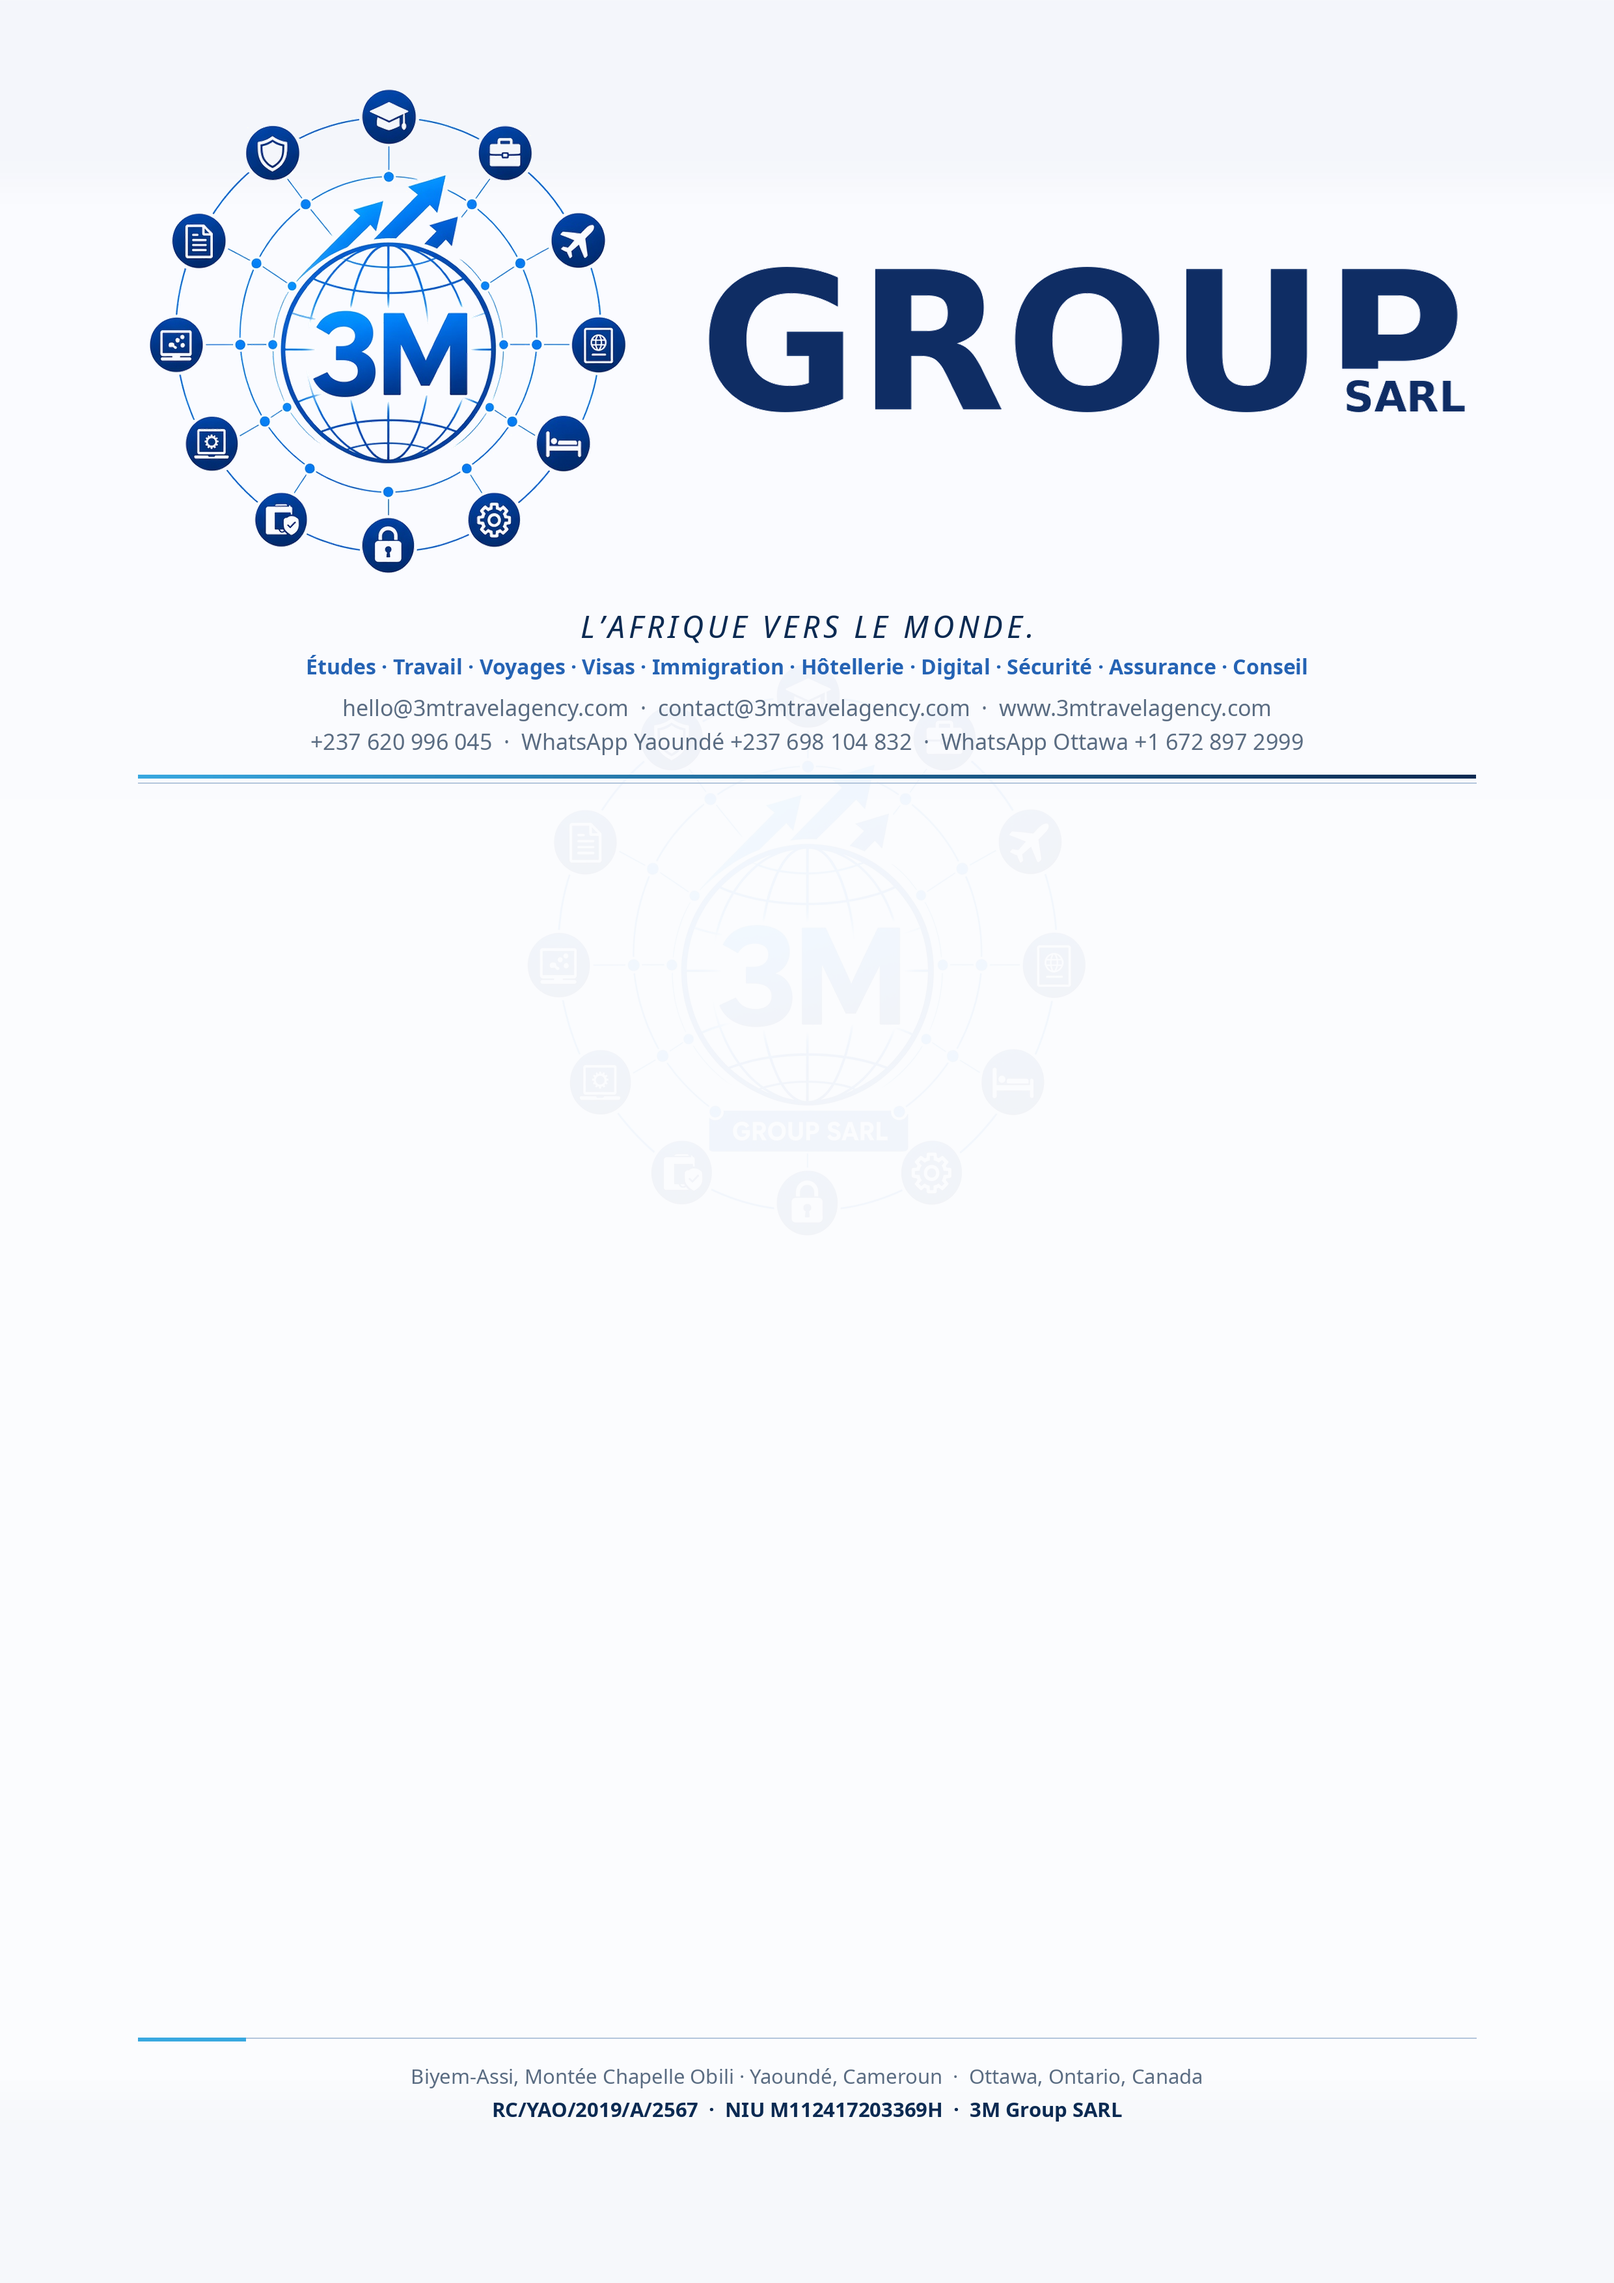
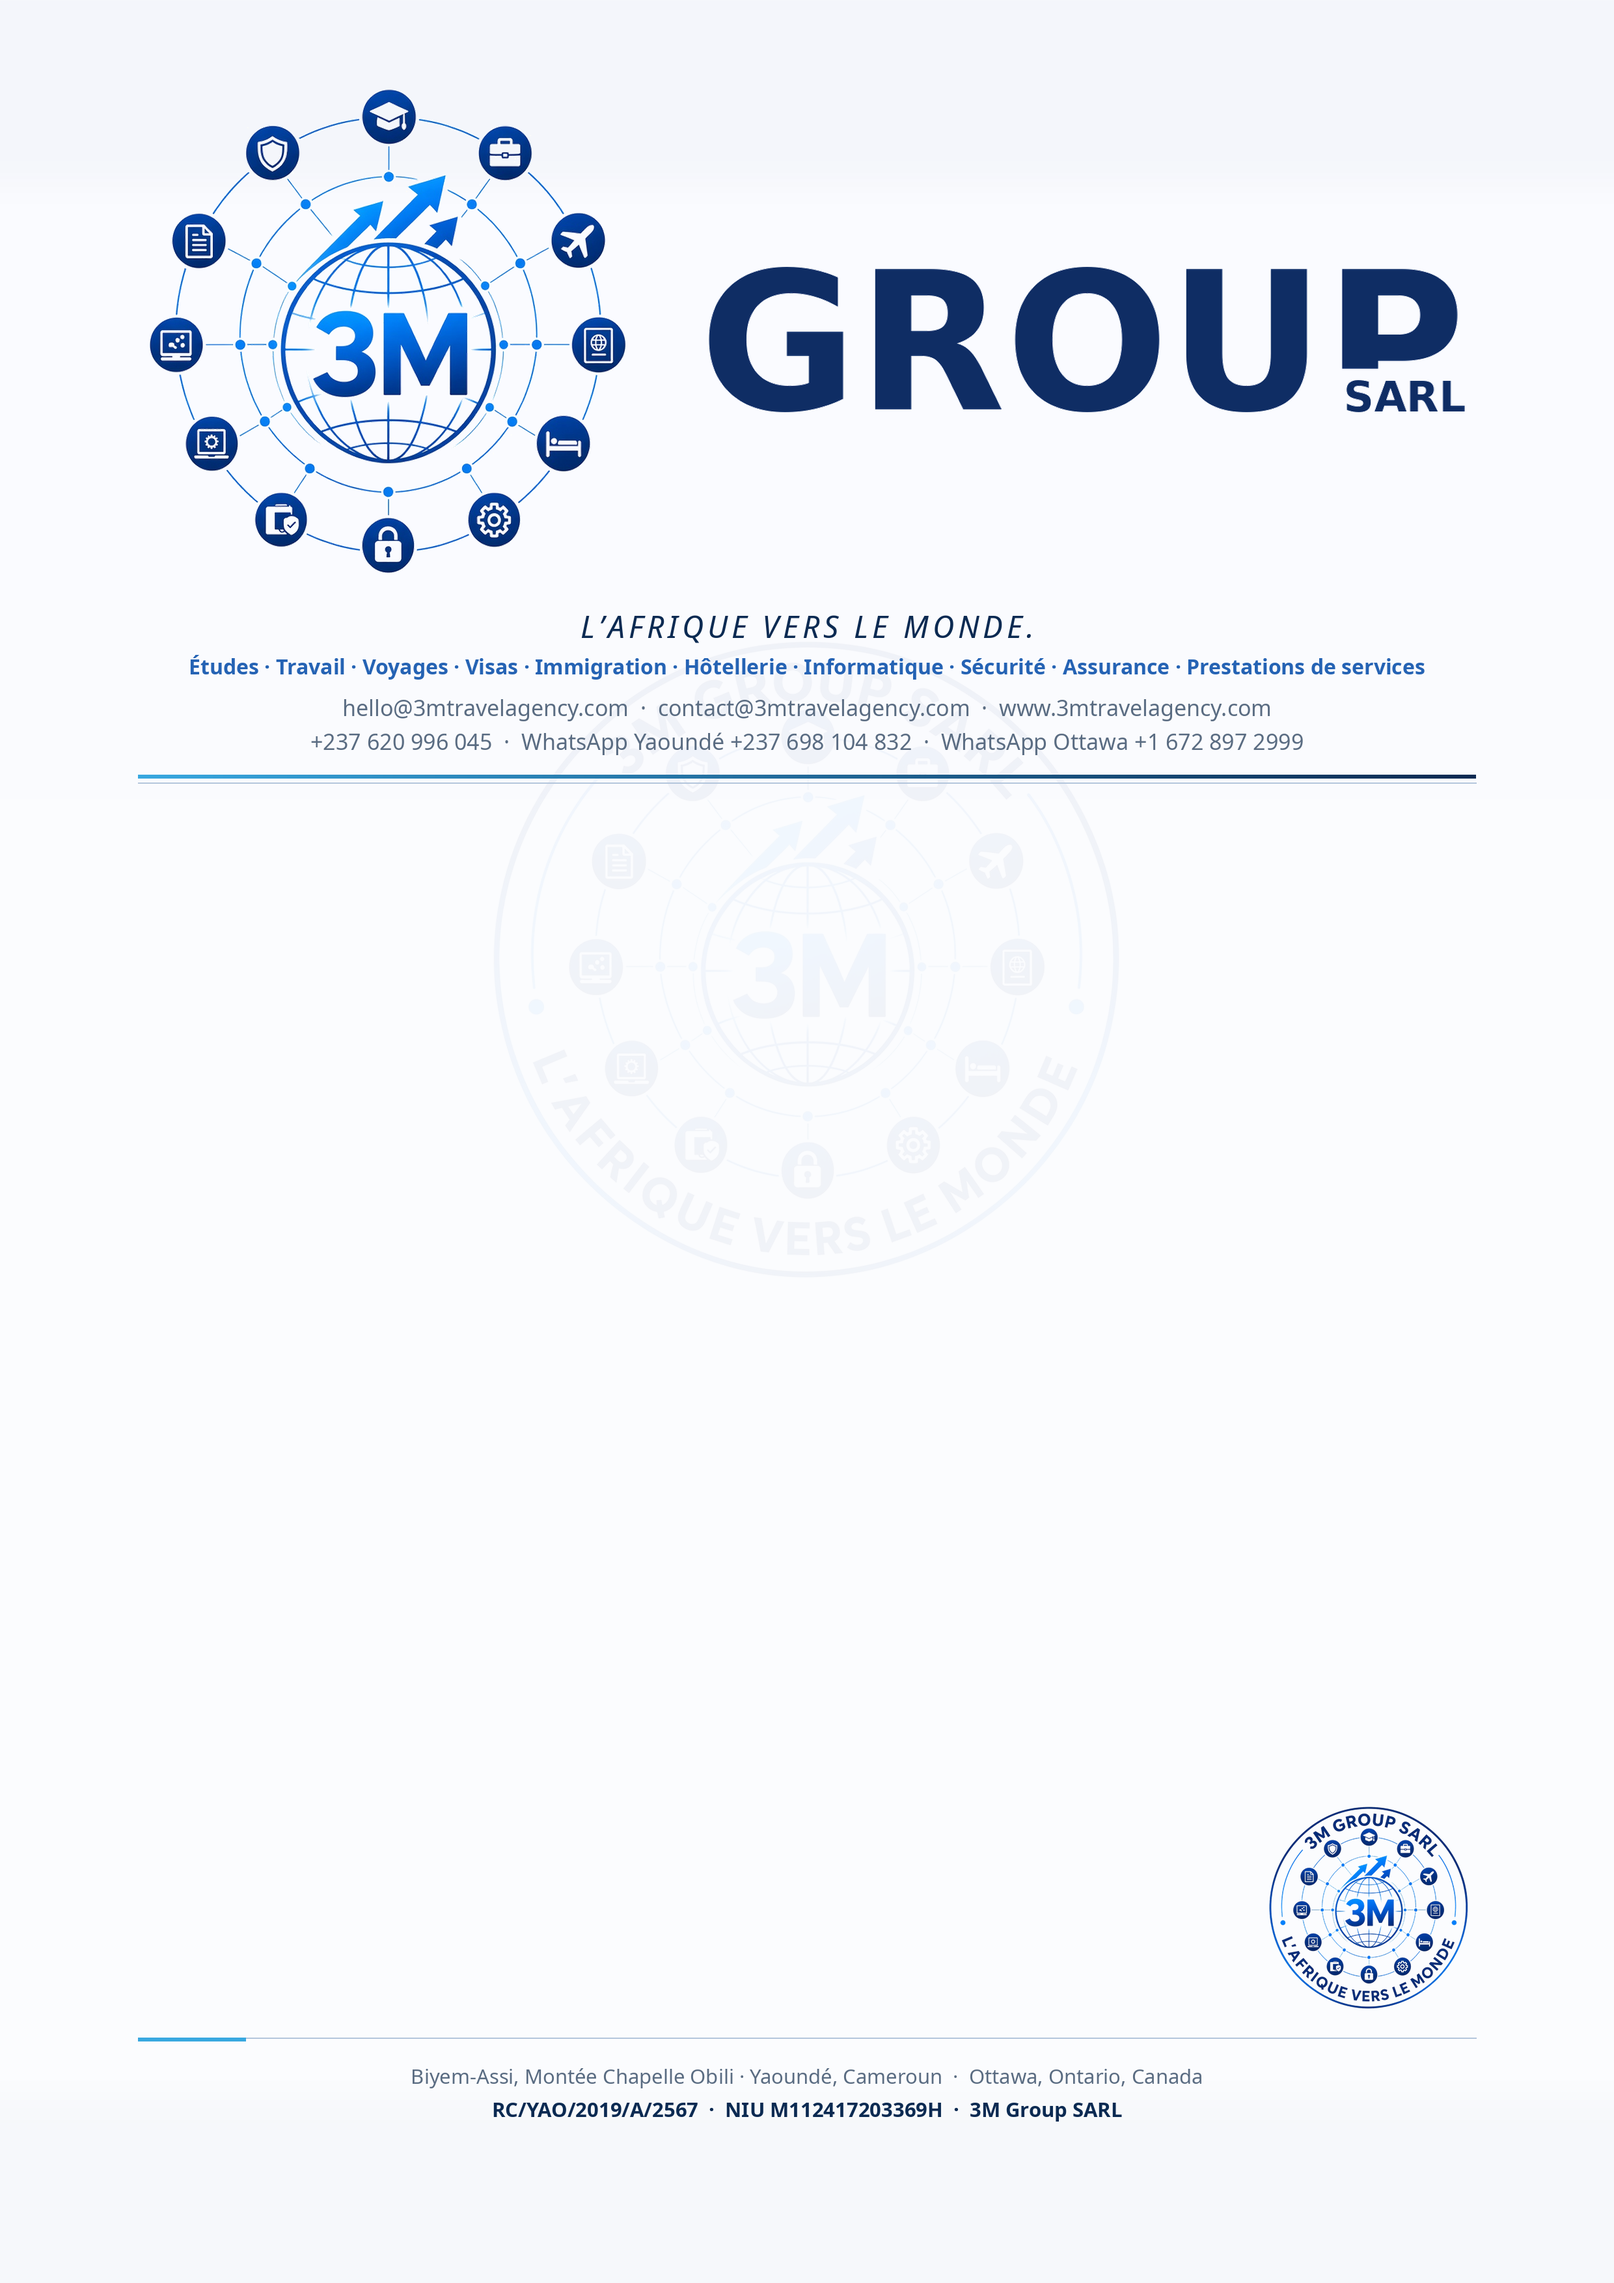
Appliquer Informatique / Prestations de services et le sceau circulaire.
Bandeau services mis à jour ; filigrane et sceau bas-droite sur le papier en-tête.

diff --git a/client/src/lib/companyContacts.ts b/client/src/lib/companyContacts.ts
@@ -25,7 +25,7 @@ export const GROUP_BRAND_MOTTO = "L’Afrique vers le monde.";
 
 /** Pôles de services du groupe — ligne d’en-tête papier en-tête / kit brand. */
 export const GROUP_SERVICES_LINE =
-  "Études · Travail · Voyages · Visas · Immigration · Hôtellerie · Digital · Sécurité · Assurance · Conseil";
+  "Études · Travail · Voyages · Visas · Immigration · Hôtellerie · Informatique · Sécurité · Assurance · Prestations de services";
 
 /** Fondateur & PDG — source canonique pour SEO, JSON-LD et pages publiques. */
 export const COMPANY_FOUNDER = {

diff --git a/scripts/generate_letterhead.py b/scripts/generate_letterhead.py
@@ -19,6 +19,8 @@ BRAND = ROOT / "client/public/brand"
 ARTIFACTS = Path("/opt/cursor/artifacts")
 LOGO_PATH = BRAND / "3m-group-logo.png"
 MARK_PATH = BRAND / "3m-group-mark.png"
+CIRCULAR_PATH = BRAND / "3m-group-logo-circular.png"
+CIRCULAR_MARK_PATH = BRAND / "3m-group-logo-circular-mark.png"
 
 NAVY = (11, 42, 82)  # #0B2A52
 NAVY_DEEP = (6, 26, 54)  # #061A36
@@ -41,7 +43,7 @@ BRAND_MOTTO = "L’Afrique vers le monde."
 # Services du groupe (emblème multi-pôles — labels pour l’en-tête)
 GROUP_SERVICES = (
     "Études · Travail · Voyages · Visas · Immigration · "
-    "Hôtellerie · Digital · Sécurité · Assurance · Conseil"
+    "Hôtellerie · Informatique · Sécurité · Assurance · Prestations de services"
 )
 
 # Contact block (GROUP letterhead — parent entity)
@@ -209,12 +211,14 @@ def render_letterhead_png(
     margin = int(18 / 25.4 * dpi)  # 18mm
     img = paper_background(w, h)
 
-    # Watermark
-    if MARK_PATH.exists():
-        place_watermark(img, Image.open(MARK_PATH), opacity=0.04)
+    # Watermark — prefer circular seal
+    wm_src = CIRCULAR_PATH if CIRCULAR_PATH.exists() else (
+        CIRCULAR_MARK_PATH if CIRCULAR_MARK_PATH.exists() else MARK_PATH
+    )
+    if wm_src.exists():
+        place_watermark(img, Image.open(wm_src), opacity=0.045)
     elif LOGO_PATH.exists():
         logo_full = Image.open(LOGO_PATH)
-        # crop left emblem roughly
         place_watermark(img, logo_full.crop((0, 0, int(logo_full.width * 0.42), logo_full.height)), 0.04)
 
     draw = ImageDraw.Draw(img)
@@ -293,6 +297,17 @@ def render_letterhead_png(
 
     # Footer
     foot_top = h - margin - int(14 / 25.4 * dpi)
+
+    # Sceau circulaire — bas droite, au-dessus du pied
+    seal_src = CIRCULAR_PATH if CIRCULAR_PATH.exists() else CIRCULAR_MARK_PATH
+    if seal_src.exists():
+        seal = knock_white(Image.open(seal_src))
+        seal_d = int(28 / 25.4 * dpi)  # ~28mm
+        seal = seal.resize((seal_d, seal_d), Image.Resampling.LANCZOS)
+        seal_x = w - margin - seal_d
+        seal_y = foot_top - seal_d - int(3 / 25.4 * dpi)
+        img.paste(seal, (seal_x, seal_y), seal)
+
     draw.line([(margin, foot_top), (w - margin, foot_top)], fill=RULE, width=max(1, int(0.25 / 25.4 * dpi)))
     # Accent tick left
     tick_w = int(14 / 25.4 * dpi)
@@ -516,8 +531,24 @@ def write_pdf(out_path: Path, preview_png: Path) -> None:
     c.setLineWidth(0.4)
     c.line(margin, rule_y - 1.6 * mm, page_w - margin, rule_y - 1.6 * mm)
 
-    # Footer
+    # Footer + circular seal (bottom-right)
     foot_y = margin + 12 * mm
+    seal_path = CIRCULAR_PATH if CIRCULAR_PATH.exists() else CIRCULAR_MARK_PATH
+    if seal_path.exists():
+        seal_im = knock_white(Image.open(seal_path))
+        seal_tmp = Path("/tmp/3m-letterhead-seal.png")
+        seal_im.save(seal_tmp, "PNG")
+        seal_d = 28 * mm
+        c.drawImage(
+            str(seal_tmp),
+            page_w - margin - seal_d,
+            foot_y + 8 * mm,
+            width=seal_d,
+            height=seal_d,
+            mask="auto",
+            preserveAspectRatio=True,
+            anchor="sw",
+        )
     c.setStrokeColorRGB(*[x / 255 for x in RULE])
     c.setLineWidth(0.5)
     c.line(margin, foot_y + 6 * mm, page_w - margin, foot_y + 6 * mm)
